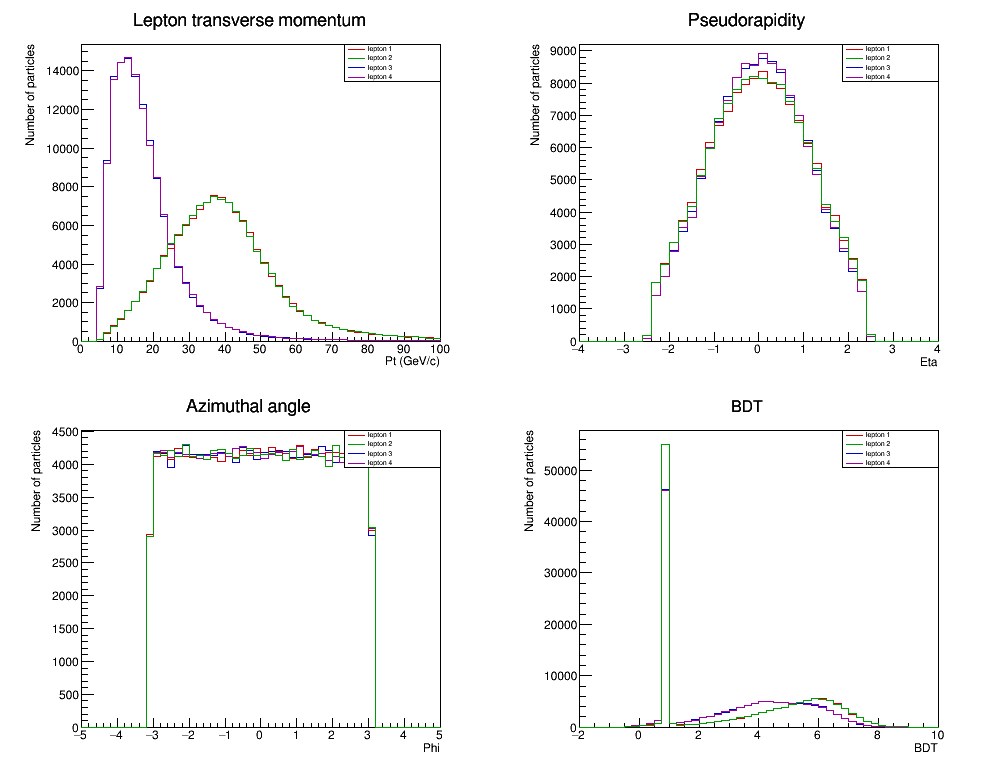
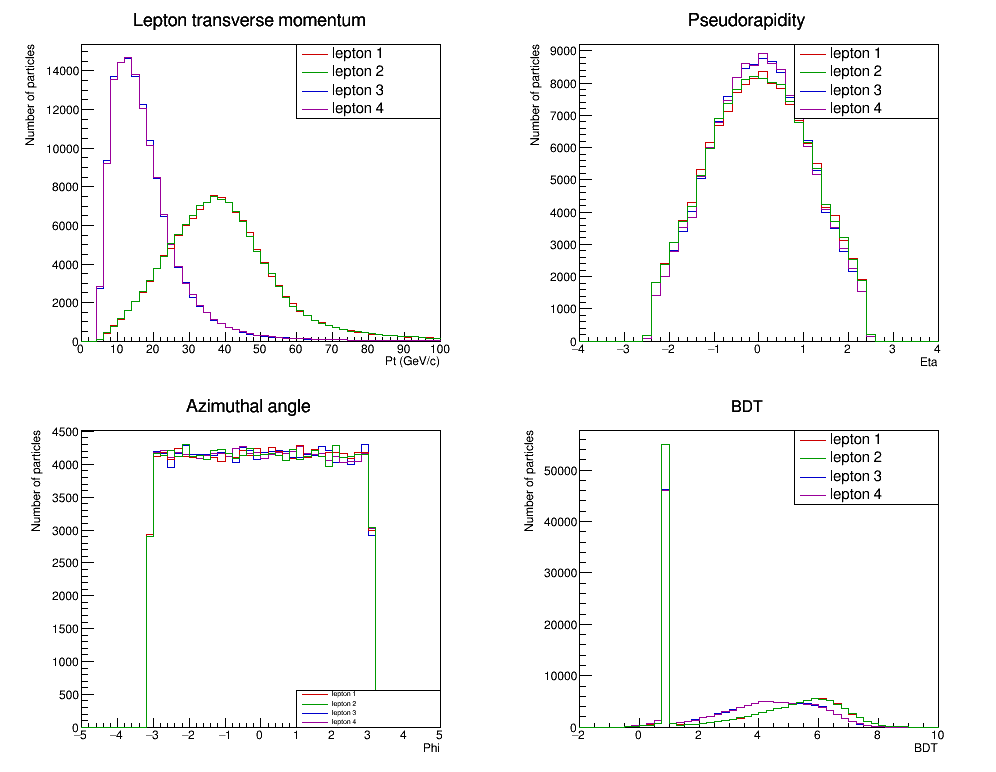
Zad2: polozaj legendi

diff --git a/Vjezbe_6/Analyzer.cpp b/Vjezbe_6/Analyzer.cpp
@@ -93,7 +93,7 @@ void Analyzer::PlotHistogram()
     h_LepPt[1]->Draw("same");
 
     //legenda
-    TLegend *leg_Pt = new TLegend(0.7,0.8,0.9,0.9);
+    TLegend *leg_Pt = new TLegend(0.6,0.7,0.9,0.9);
     std::string opis;
     for(i=0; i<4; i++){
         opis = "lepton " + std::to_string(i+1);
@@ -124,7 +124,7 @@ void Analyzer::PlotHistogram()
     h_LepEta[1]->Draw("same");
 
     //legenda
-    TLegend *leg_Eta = new TLegend(0.7,0.8,0.9,0.9);
+    TLegend *leg_Eta = new TLegend(0.6,0.7,0.9,0.9);
     for(i=0; i<4; i++){
         opis = "lepton " + std::to_string(i+1);
         leg_Eta->AddEntry(h_LepEta[i], opis.c_str(), "l");
@@ -154,7 +154,7 @@ void Analyzer::PlotHistogram()
     h_LepPhi[1]->Draw("same");
 
     //legenda
-    TLegend *leg_Phi = new TLegend(0.7,0.8,0.9,0.9);
+    TLegend *leg_Phi = new TLegend(0.6,0.1,0.9,0.2);
     for(i=0; i<4; i++){
         opis = "lepton " + std::to_string(i+1);
         leg_Phi->AddEntry(h_LepPhi[i], opis.c_str(), "l");
@@ -184,7 +184,7 @@ void Analyzer::PlotHistogram()
     h_LepBDT[1]->Draw("same");  
 
     //legenda
-    TLegend *leg_BDT = new TLegend(0.7,0.8,0.9,0.9);
+    TLegend *leg_BDT = new TLegend(0.6,0.7,0.9,0.9);
     for(i=0; i<4; i++){
         opis = "lepton " + std::to_string(i+1);
         leg_BDT->AddEntry(h_LepBDT[i], opis.c_str(), "l");
